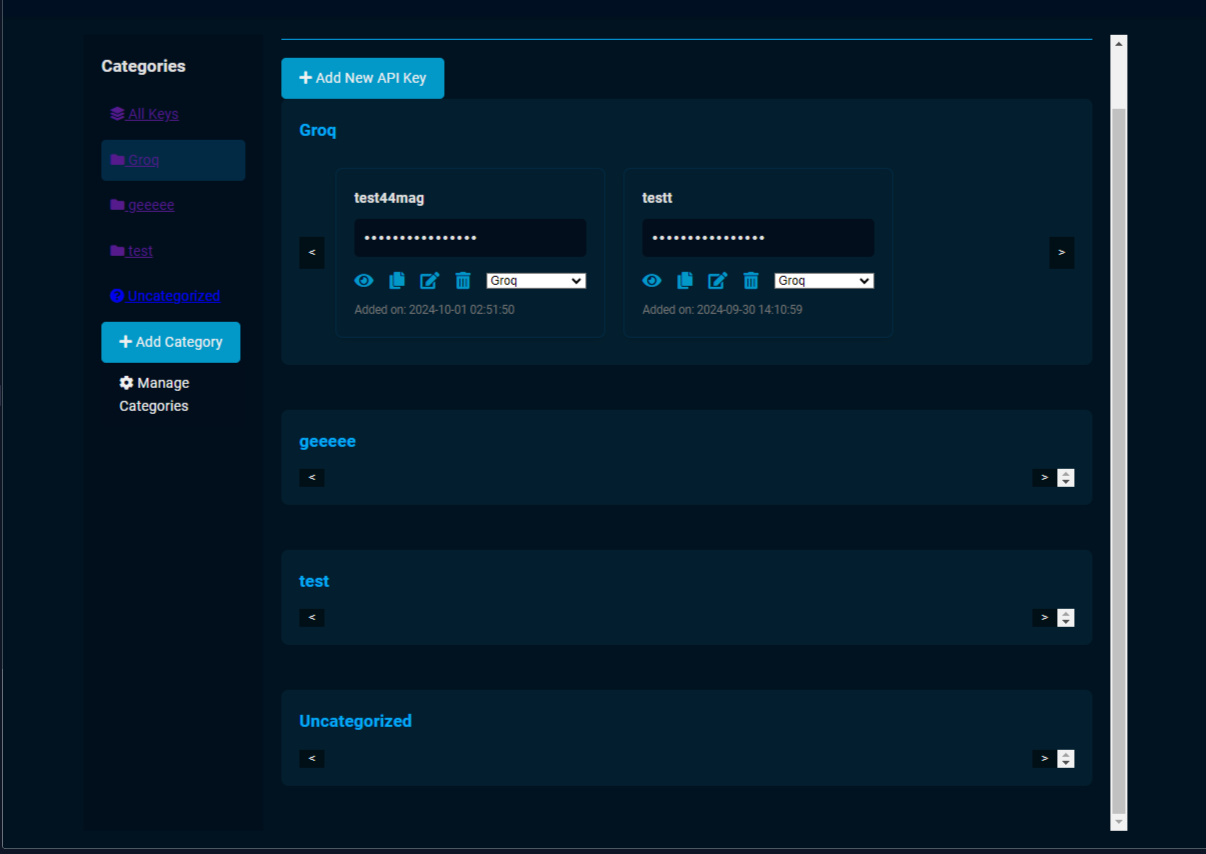
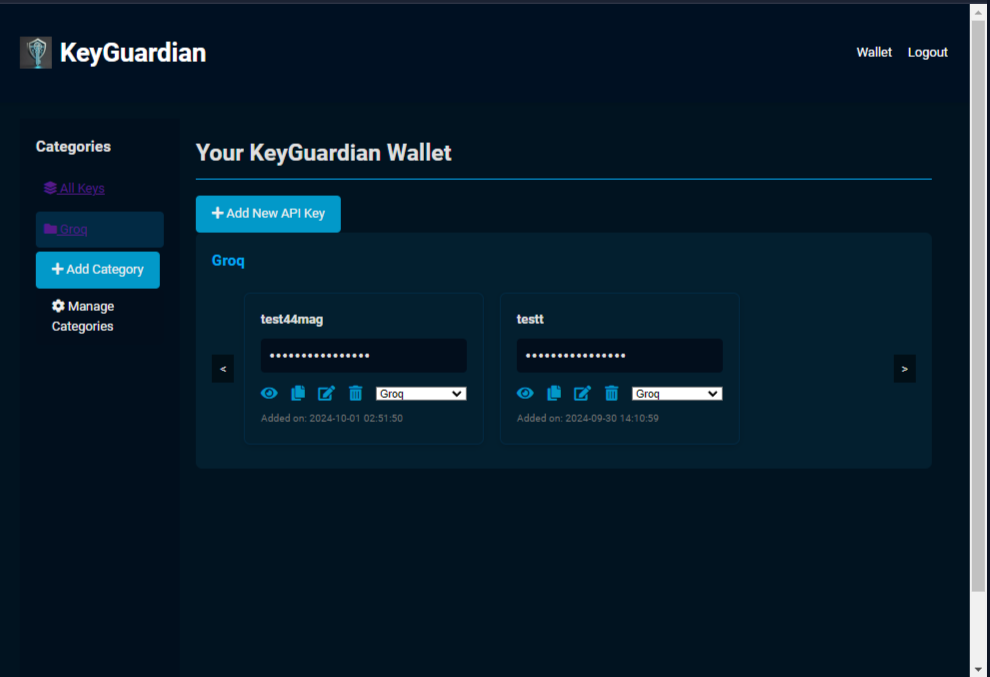
Agent query: Please verify the following: 1) The sidebar now shows all categories, regardless of whether they have API keys or not. 2) Clicking on a category filters the API keys to show only those in the selected category. 3) The 'All Keys' option shows all API keys. 4) The 'Uncategorized' option i

diff --git a/templates/wallet.html b/templates/wallet.html
@@ -16,18 +16,14 @@
             <li data-category-id="all" class="{% if not current_category_id %}active{% endif %}">
                 <a href="{{ url_for('main.wallet') }}"><i class="fas fa-layer-group"></i> All Keys</a>
             </li>
-            {% for category in categories %}
-                {% if category.name in grouped_keys %}
-                    <li data-category-id="{{ category.id }}" class="{% if current_category_id == category.id %}active{% endif %}">
-                        <a href="{{ url_for('main.wallet', category_id=category.id) }}"><i class="fas fa-folder"></i> {{ category.name }}</a>
-                    </li>
-                {% endif %}
-            {% endfor %}
-            {% if 'Uncategorized' in grouped_keys %}
-                <li data-category-id="uncategorized" class="{% if current_category_id == 0 %}active{% endif %}">
-                    <a href="{{ url_for('main.wallet', category_id=0) }}"><i class="fas fa-question-circle"></i> Uncategorized</a>
+            {% for category in all_categories %}
+                <li data-category-id="{{ category.id }}" class="{% if current_category_id == category.id %}active{% endif %}">
+                    <a href="{{ url_for('main.wallet', category_id=category.id) }}"><i class="fas fa-folder"></i> {{ category.name }}</a>
                 </li>
-            {% endif %}
+            {% endfor %}
+            <li data-category-id="uncategorized" class="{% if current_category_id == 0 %}active{% endif %}">
+                <a href="{{ url_for('main.wallet', category_id=0) }}"><i class="fas fa-question-circle"></i> Uncategorized</a>
+            </li>
         </ul>
         <a href="{{ url_for('main.add_category') }}" class="btn btn-sm btn-primary"><i class="fas fa-plus"></i> Add Category</a>
         <a href="{{ url_for('main.manage_categories') }}" class="btn btn-sm btn-secondary"><i class="fas fa-cog"></i> Manage Categories</a>
@@ -54,7 +50,7 @@
                                         <button class="delete-btn" data-key-id="{{ key.id }}" title="Delete Key"><i class="fas fa-trash-alt"></i></button>
                                         <select class="category-select" data-key-id="{{ key.id }}">
                                             <option value="0">Uncategorized</option>
-                                            {% for cat in categories %}
+                                            {% for cat in all_categories %}
                                                 <option value="{{ cat.id }}" {% if key.category_id == cat.id %}selected{% endif %}>{{ cat.name }}</option>
                                             {% endfor %}
                                         </select>

diff --git a/routes.py b/routes.py
@@ -93,27 +93,25 @@ def wallet(category_id=None):
         
         if category_id:
             api_keys = APIKey.query.filter_by(user_id=current_user.id, category_id=category_id).all()
-            grouped_keys = {category.name: [] for category in categories if category.id == category_id}
-            grouped_keys['Uncategorized'] = []
         else:
             api_keys = APIKey.query.filter_by(user_id=current_user.id).all()
-            grouped_keys = {category.name: [] for category in categories}
-            grouped_keys['Uncategorized'] = []
+        
+        grouped_keys = {category.name: [] for category in categories}
+        grouped_keys['Uncategorized'] = []
         
         for key in api_keys:
             if key.category:
-                if key.category.name in grouped_keys:
-                    grouped_keys[key.category.name].append(key)
+                grouped_keys[key.category.name].append(key)
             else:
                 grouped_keys['Uncategorized'].append(key)
         
-        # Remove empty categories
-        grouped_keys = {k: v for k, v in grouped_keys.items() if v}
+        # Remove empty categories only from the main display, not the sidebar
+        display_grouped_keys = {k: v for k, v in grouped_keys.items() if v}
         
-        for category, keys in grouped_keys.items():
+        for category, keys in display_grouped_keys.items():
             current_app.logger.info(f"Category '{category}' has {len(keys)} keys")
         
-        return render_template('wallet.html', grouped_keys=grouped_keys, categories=categories, current_category_id=category_id, debug=current_app.debug)
+        return render_template('wallet.html', grouped_keys=display_grouped_keys, all_categories=categories, current_category_id=category_id, debug=current_app.debug)
     except Exception as e:
         current_app.logger.error(f"Error in wallet route: {str(e)}")
         current_app.logger.error(traceback.format_exc())
